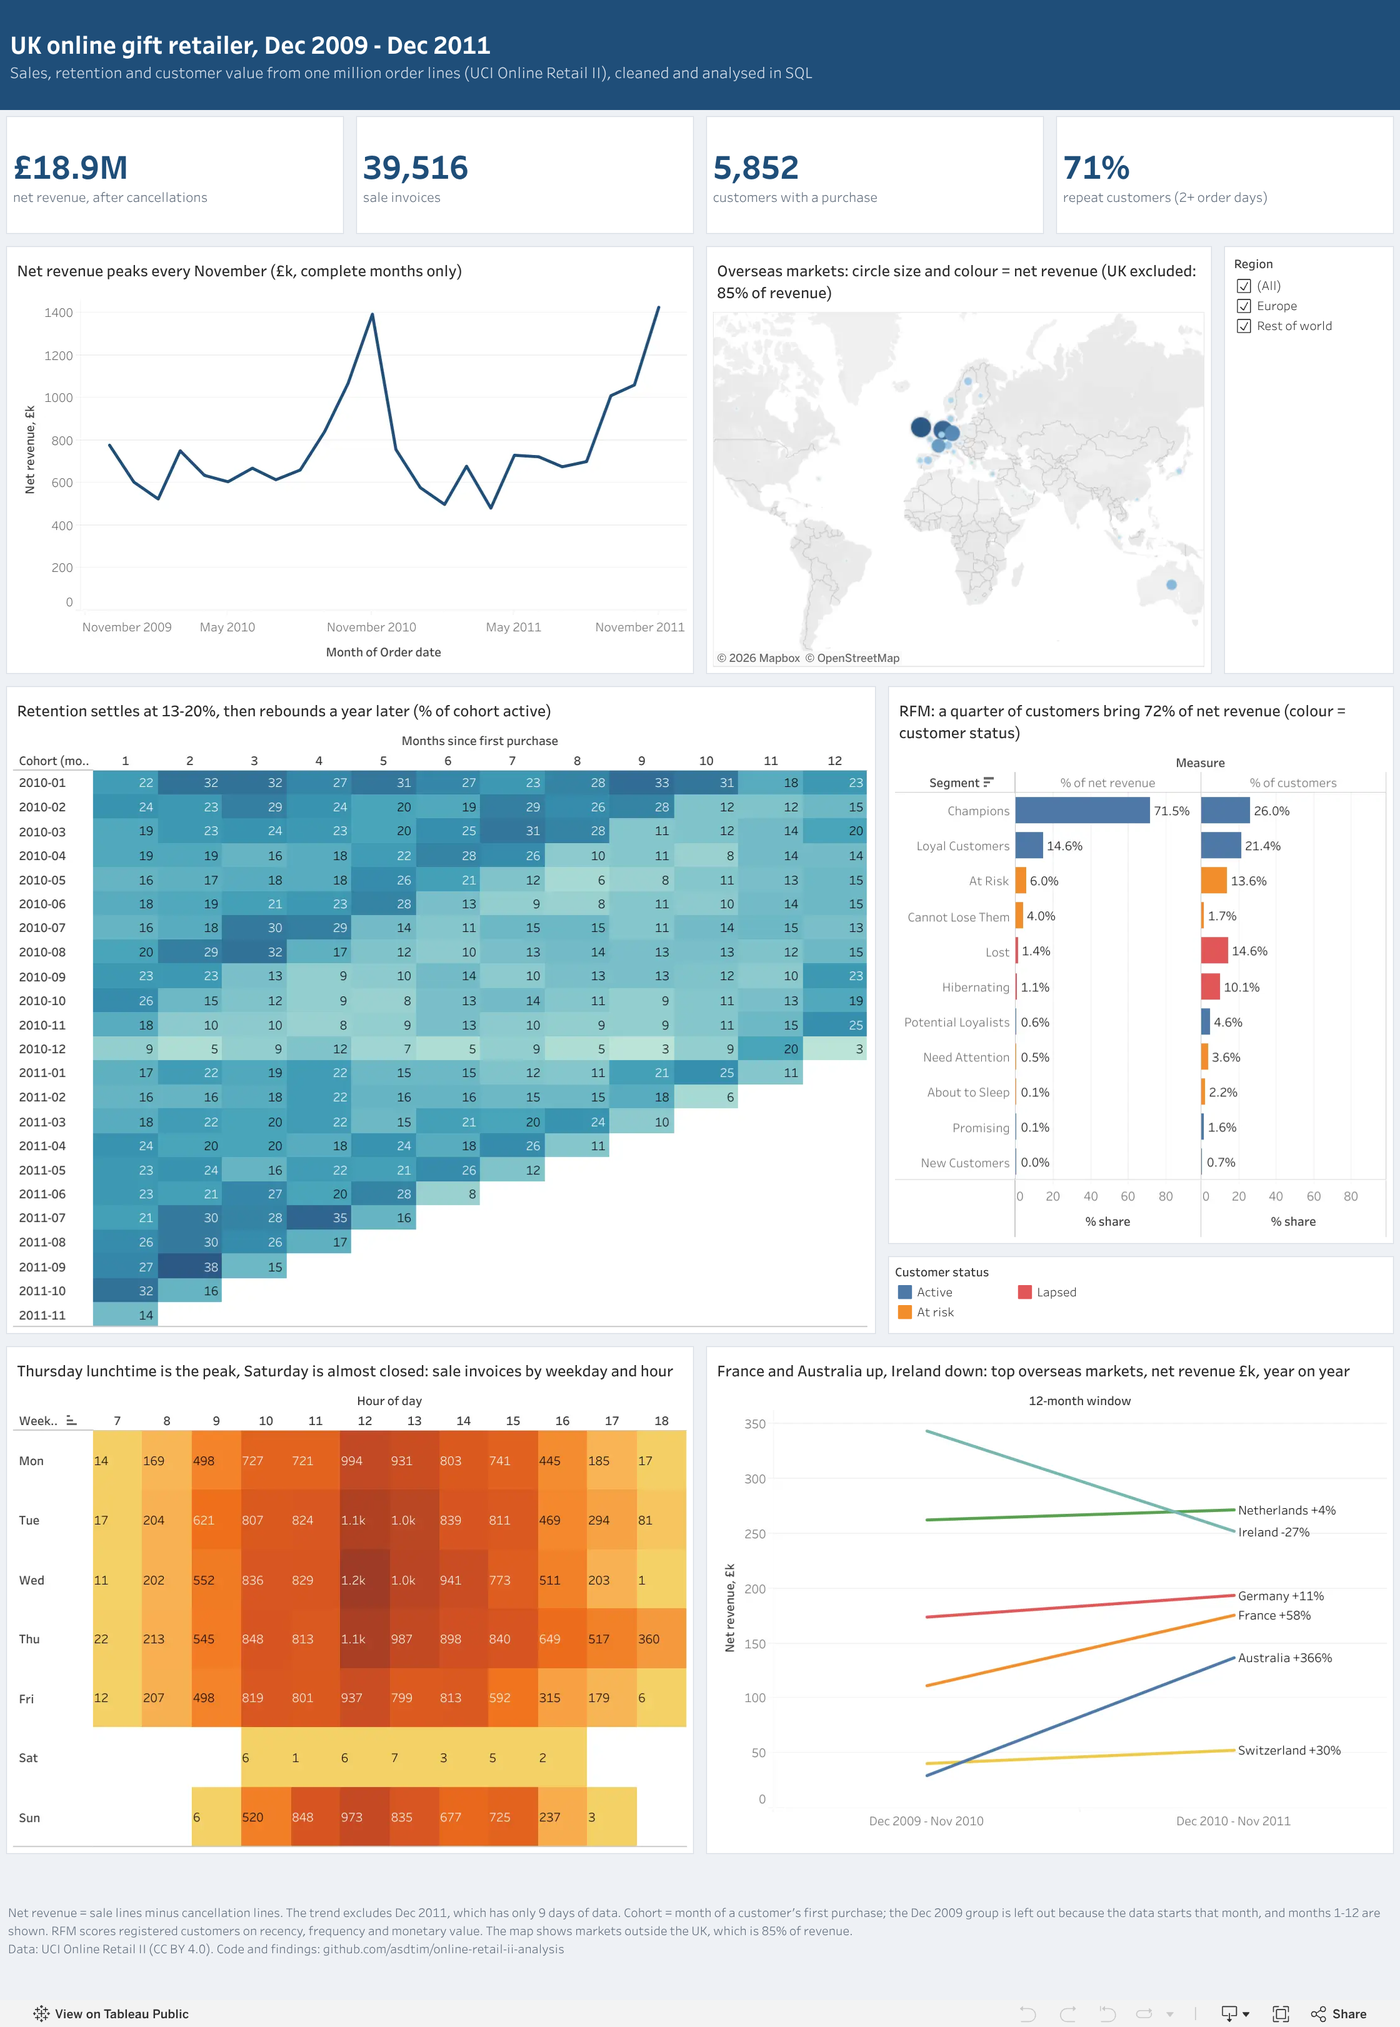
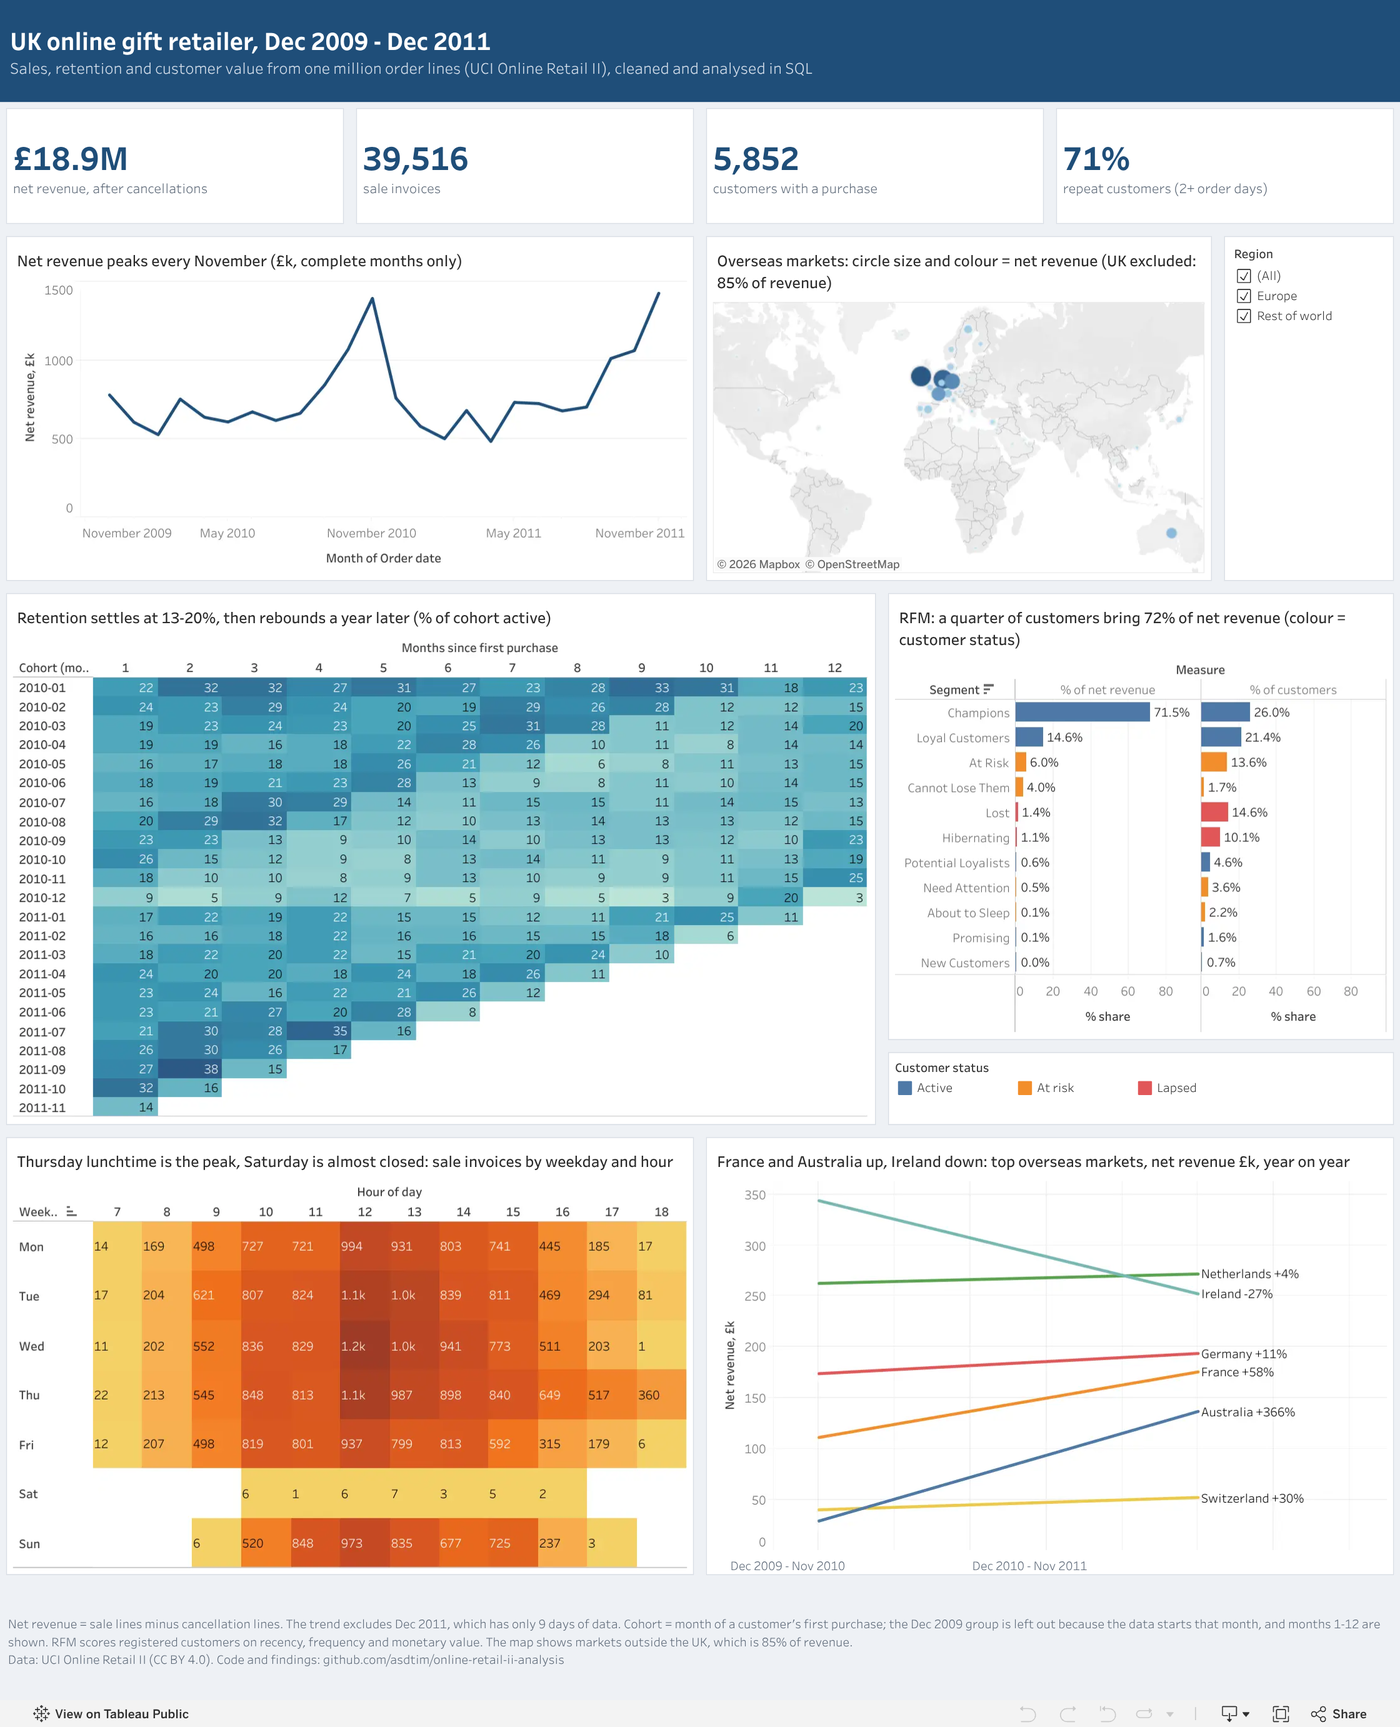
point the dashboard link and screenshot at the republished workbook

diff --git a/README.md b/README.md
@@ -17,7 +17,7 @@ Tableau Public dashboard and for the charts below.
 | Net revenue (sales minus cancellations) | £18.9M |
 | Like-for-like growth, Dec 10-Nov 11 vs Dec 09-Nov 10 | +1.9% net revenue, -4.0% orders, +6.8% average order value |
 
-**Dashboard:** interactive version on [Tableau Public](https://public.tableau.com/app/profile/tim.smitn/viz/online_retail_dashboard_17905382659160/OnlineRetailII); screenshot in the Dashboard section below.
+**Dashboard:** interactive version on [Tableau Public](https://public.tableau.com/app/profile/tim.smitn/viz/online_retail_dashboard_17905439682910/OnlineRetailII); screenshot in the Dashboard section below.
 
 ---
 
@@ -248,9 +248,9 @@ line is matched to the latest earlier sale of the same customer and product
 
 ## Dashboard
 
-[![Dashboard](docs/dashboard.png)](https://public.tableau.com/app/profile/tim.smitn/viz/online_retail_dashboard_17905382659160/OnlineRetailII)
+[![Dashboard](docs/dashboard.png)](https://public.tableau.com/app/profile/tim.smitn/viz/online_retail_dashboard_17905439682910/OnlineRetailII)
 
-Interactive version: https://public.tableau.com/app/profile/tim.smitn/viz/online_retail_dashboard_17905382659160/OnlineRetailII
+Interactive version: https://public.tableau.com/app/profile/tim.smitn/viz/online_retail_dashboard_17905439682910/OnlineRetailII
 
 Six views built from the CSVs in `outputs/tableau/`: monthly net revenue,
 overseas markets map with a region filter, cohort retention heat map, RFM

diff --git a/README_zh.md b/README_zh.md
@@ -19,7 +19,7 @@
 
 * **SQL（DuckDB）**：所有分析。DuckDB 是单文件分析型数据库，不用装服务器，语法接近 PostgreSQL；除了几个 DuckDB 自带的函数，SQL 都是标准写法，换到 PostgreSQL 或 MySQL 只需少量修改。
 * **Python**：只用于 Excel 转 CSV、按顺序执行 SQL 文件、画 README 里的图。
-* **Tableau Public**：[仪表板](https://public.tableau.com/app/profile/tim.smitn/viz/online_retail_dashboard_17905382659160/OnlineRetailII)，数据来自导出的 CSV（哪个文件对应哪张图见 `docs/dashboard.md`）。
+* **Tableau Public**：[仪表板](https://public.tableau.com/app/profile/tim.smitn/viz/online_retail_dashboard_17905439682910/OnlineRetailII)，数据来自导出的 CSV（哪个文件对应哪张图见 `docs/dashboard.md`）。
 
 ## 怎么跑
 

diff --git a/docs/dashboard.md b/docs/dashboard.md
@@ -1,6 +1,6 @@
 # Dashboard notes
 
-Published workbook: https://public.tableau.com/app/profile/tim.smitn/viz/online_retail_dashboard_17905382659160/OnlineRetailII
+Published workbook: https://public.tableau.com/app/profile/tim.smitn/viz/online_retail_dashboard_17905439682910/OnlineRetailII
 
 The dashboard has six views. Each one reads a CSV that
 `sql/99_export_tableau.sql` writes to `outputs/tableau/`.
